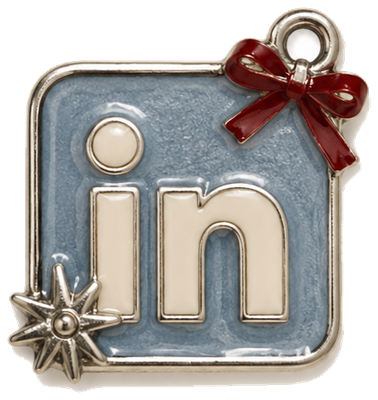
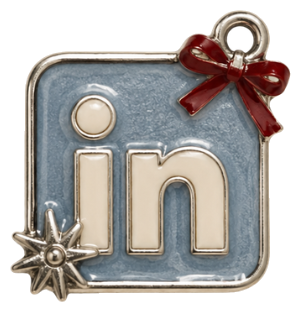
Complete social row with matching charm set: mail, LinkedIn, GitHub
GitHub charm wired to github.com/aashvigeddam; all three links live.

Claude-Session: https://claude.ai/code/session_01HwHnB6ZvdvjAvLg4jAqUHh

diff --git a/index.html b/index.html
@@ -125,9 +125,9 @@ const LAYOUT = {
   "label-exp":      {x: 960, y: 382, w: 300, h:  30, r:  0},
   "certstack":      {x: 970, y: 420, w: 250, h: 240, r:  0},
   "label-cert":     {x: 960, y: 672, w: 280, h:  30, r:  0},
-  "soc-mail":       {x: 566, y: 687, w:  62, h:  50, r: -3, href: "mailto:aashvi.geddam@gmail.com"},
-  "soc-li":         {x: 649, y: 687, w:  50, h:  53, r:  2, href: "https://www.linkedin.com/in/aashvi-geddam"},
-  "soc-gh":         {x: 717, y: 693, w:  50, h:  48, r: -2, href: null},
+  "soc-mail":       {x: 566, y: 688, w:  62, h:  49, r: -3, href: "mailto:aashvi.geddam@gmail.com"},
+  "soc-li":         {x: 649, y: 686, w:  50, h:  52, r:  2, href: "https://www.linkedin.com/in/aashvi-geddam"},
+  "soc-gh":         {x: 717, y: 687, w:  50, h:  51, r: -2, href: "https://github.com/aashvigeddam"},
 };
 
 const ASSETS = {
@@ -141,11 +141,12 @@ const ASSETS = {
   "doodle-apple": "assets/doodle-apple.png",
   "soc-mail": "assets/soc-mail.png",
   "soc-li": "assets/soc-li.png",
+  "soc-gh": "assets/soc-gh.png",
   /* pending — leave null until the files exist: */
   "doodle-dragonfly": "assets/doodle-dragonfly.png",
   "photo": "assets/photo.png",
   "scrap-hi": null, "scrap-welcome": null,
-  "certstack": null, "soc-gh": null,
+  "certstack": null,
   deviceFrame: "assets/camera.png",
   deviceVideo: "assets/experience-demo.mp4",
   deviceScreen: {x: 0.0762, y: 0.3195, w: 0.4721, h: 0.5320},
